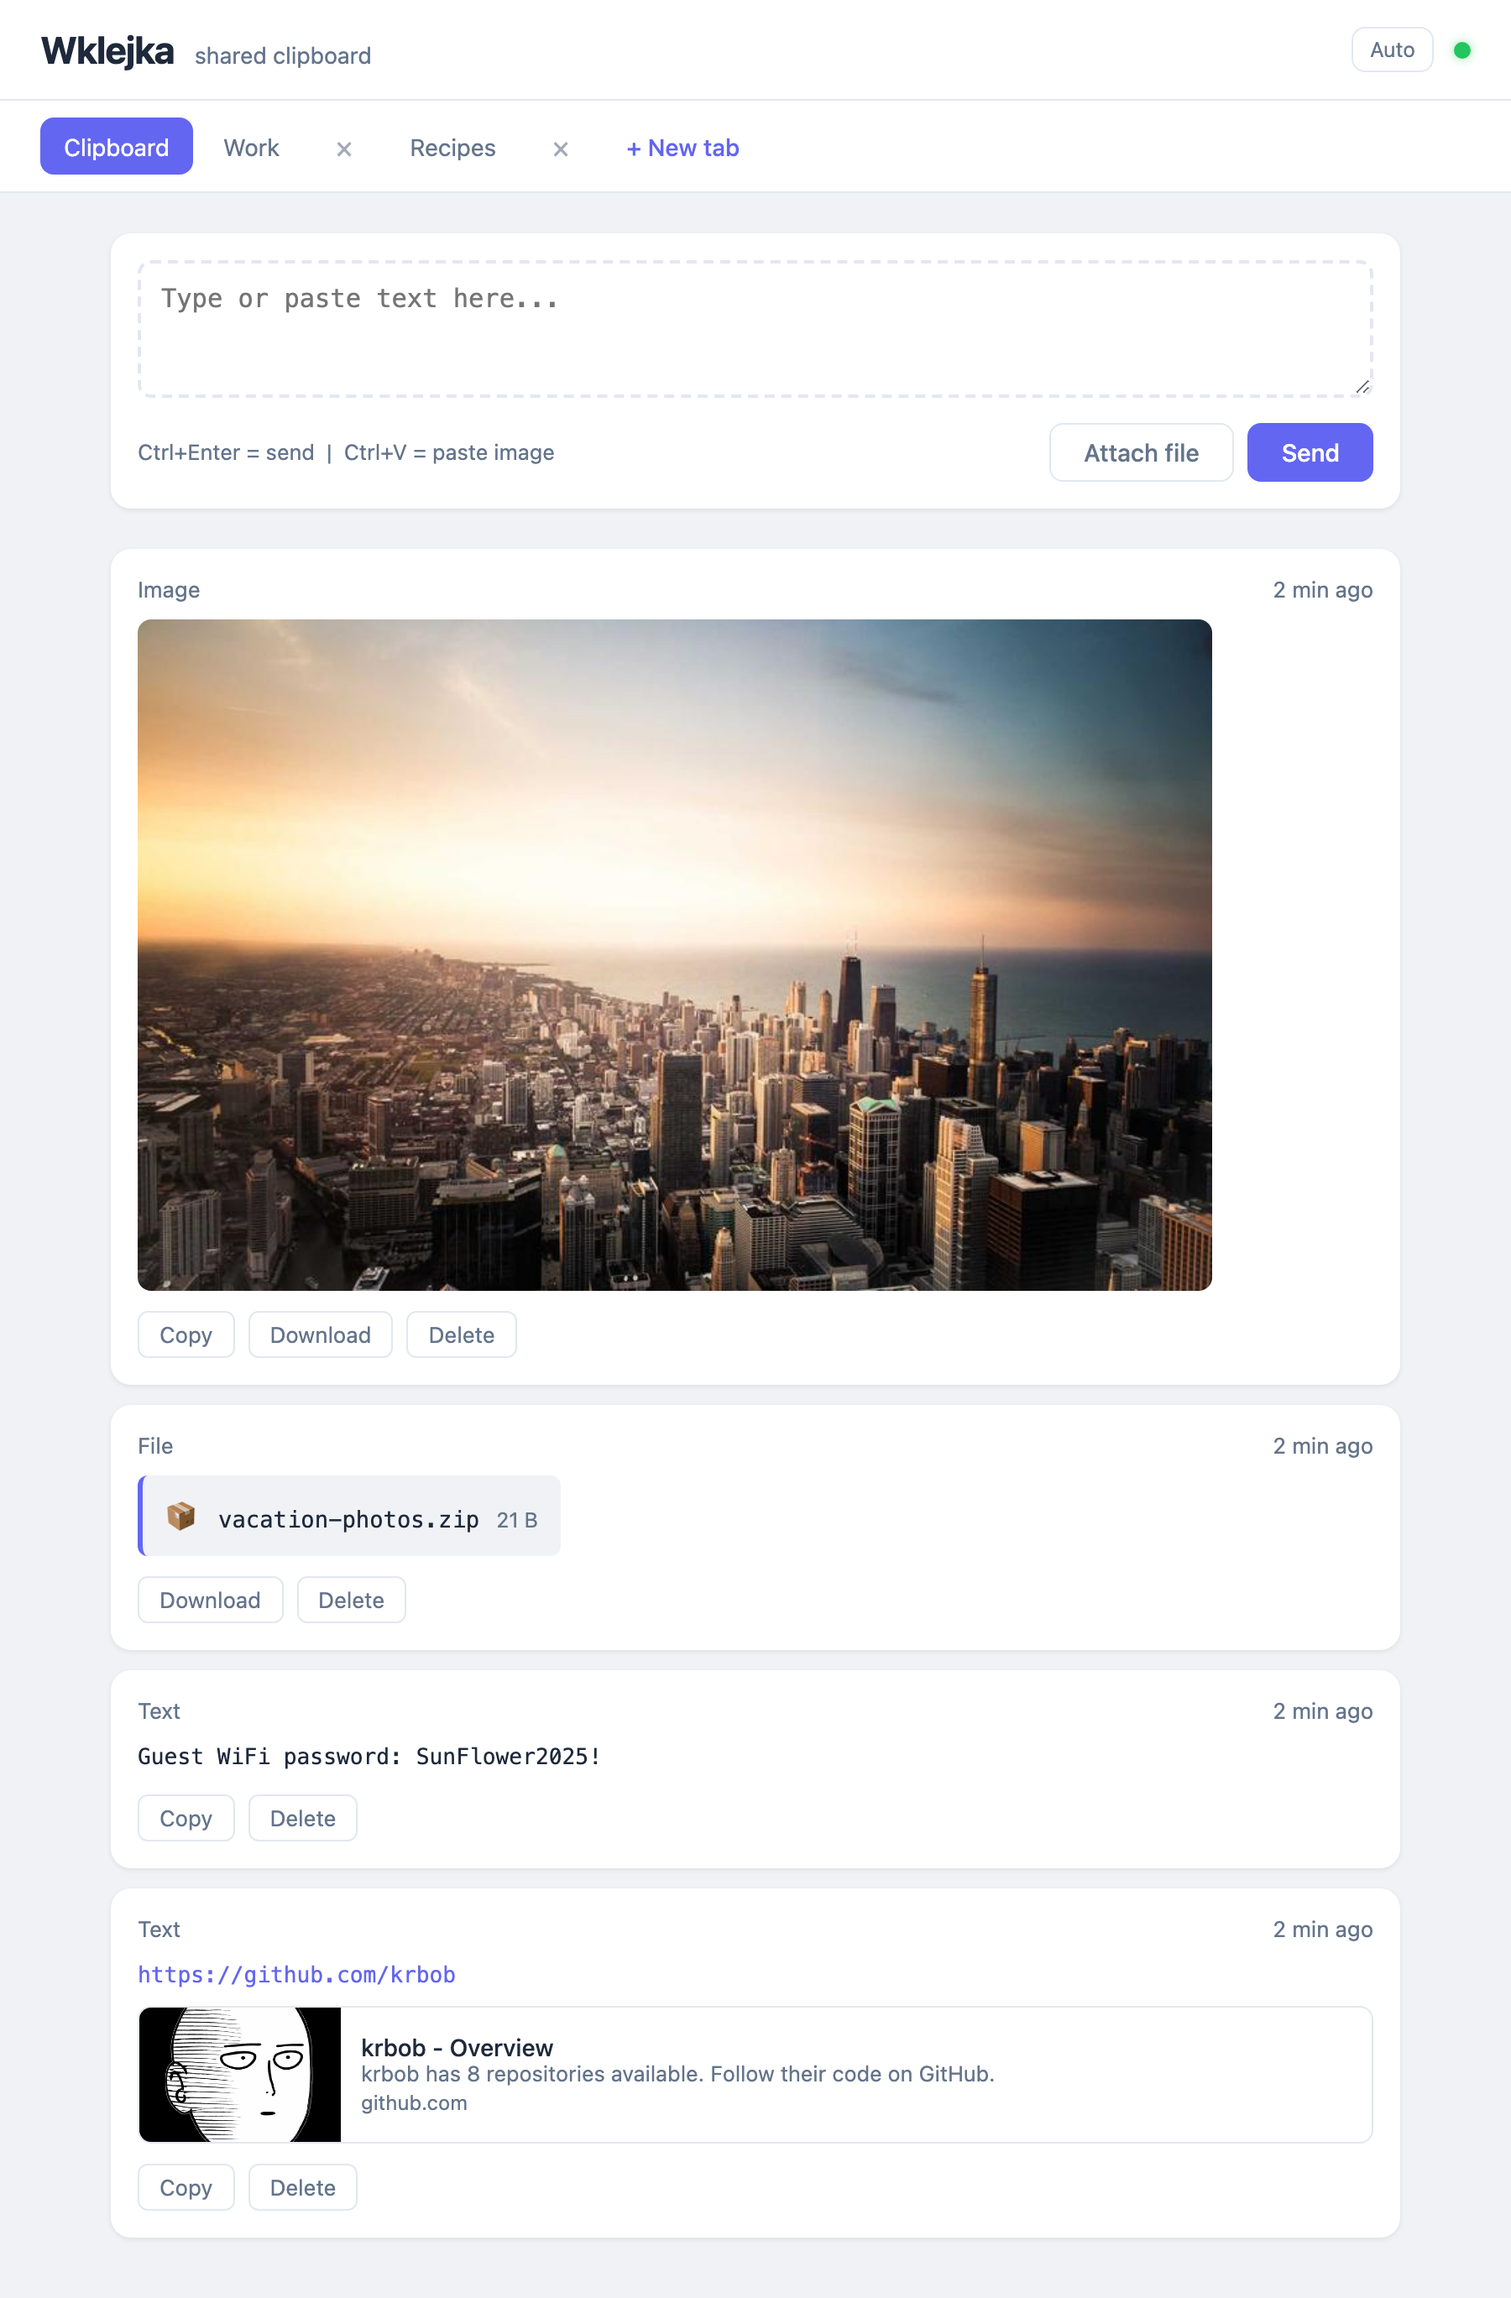
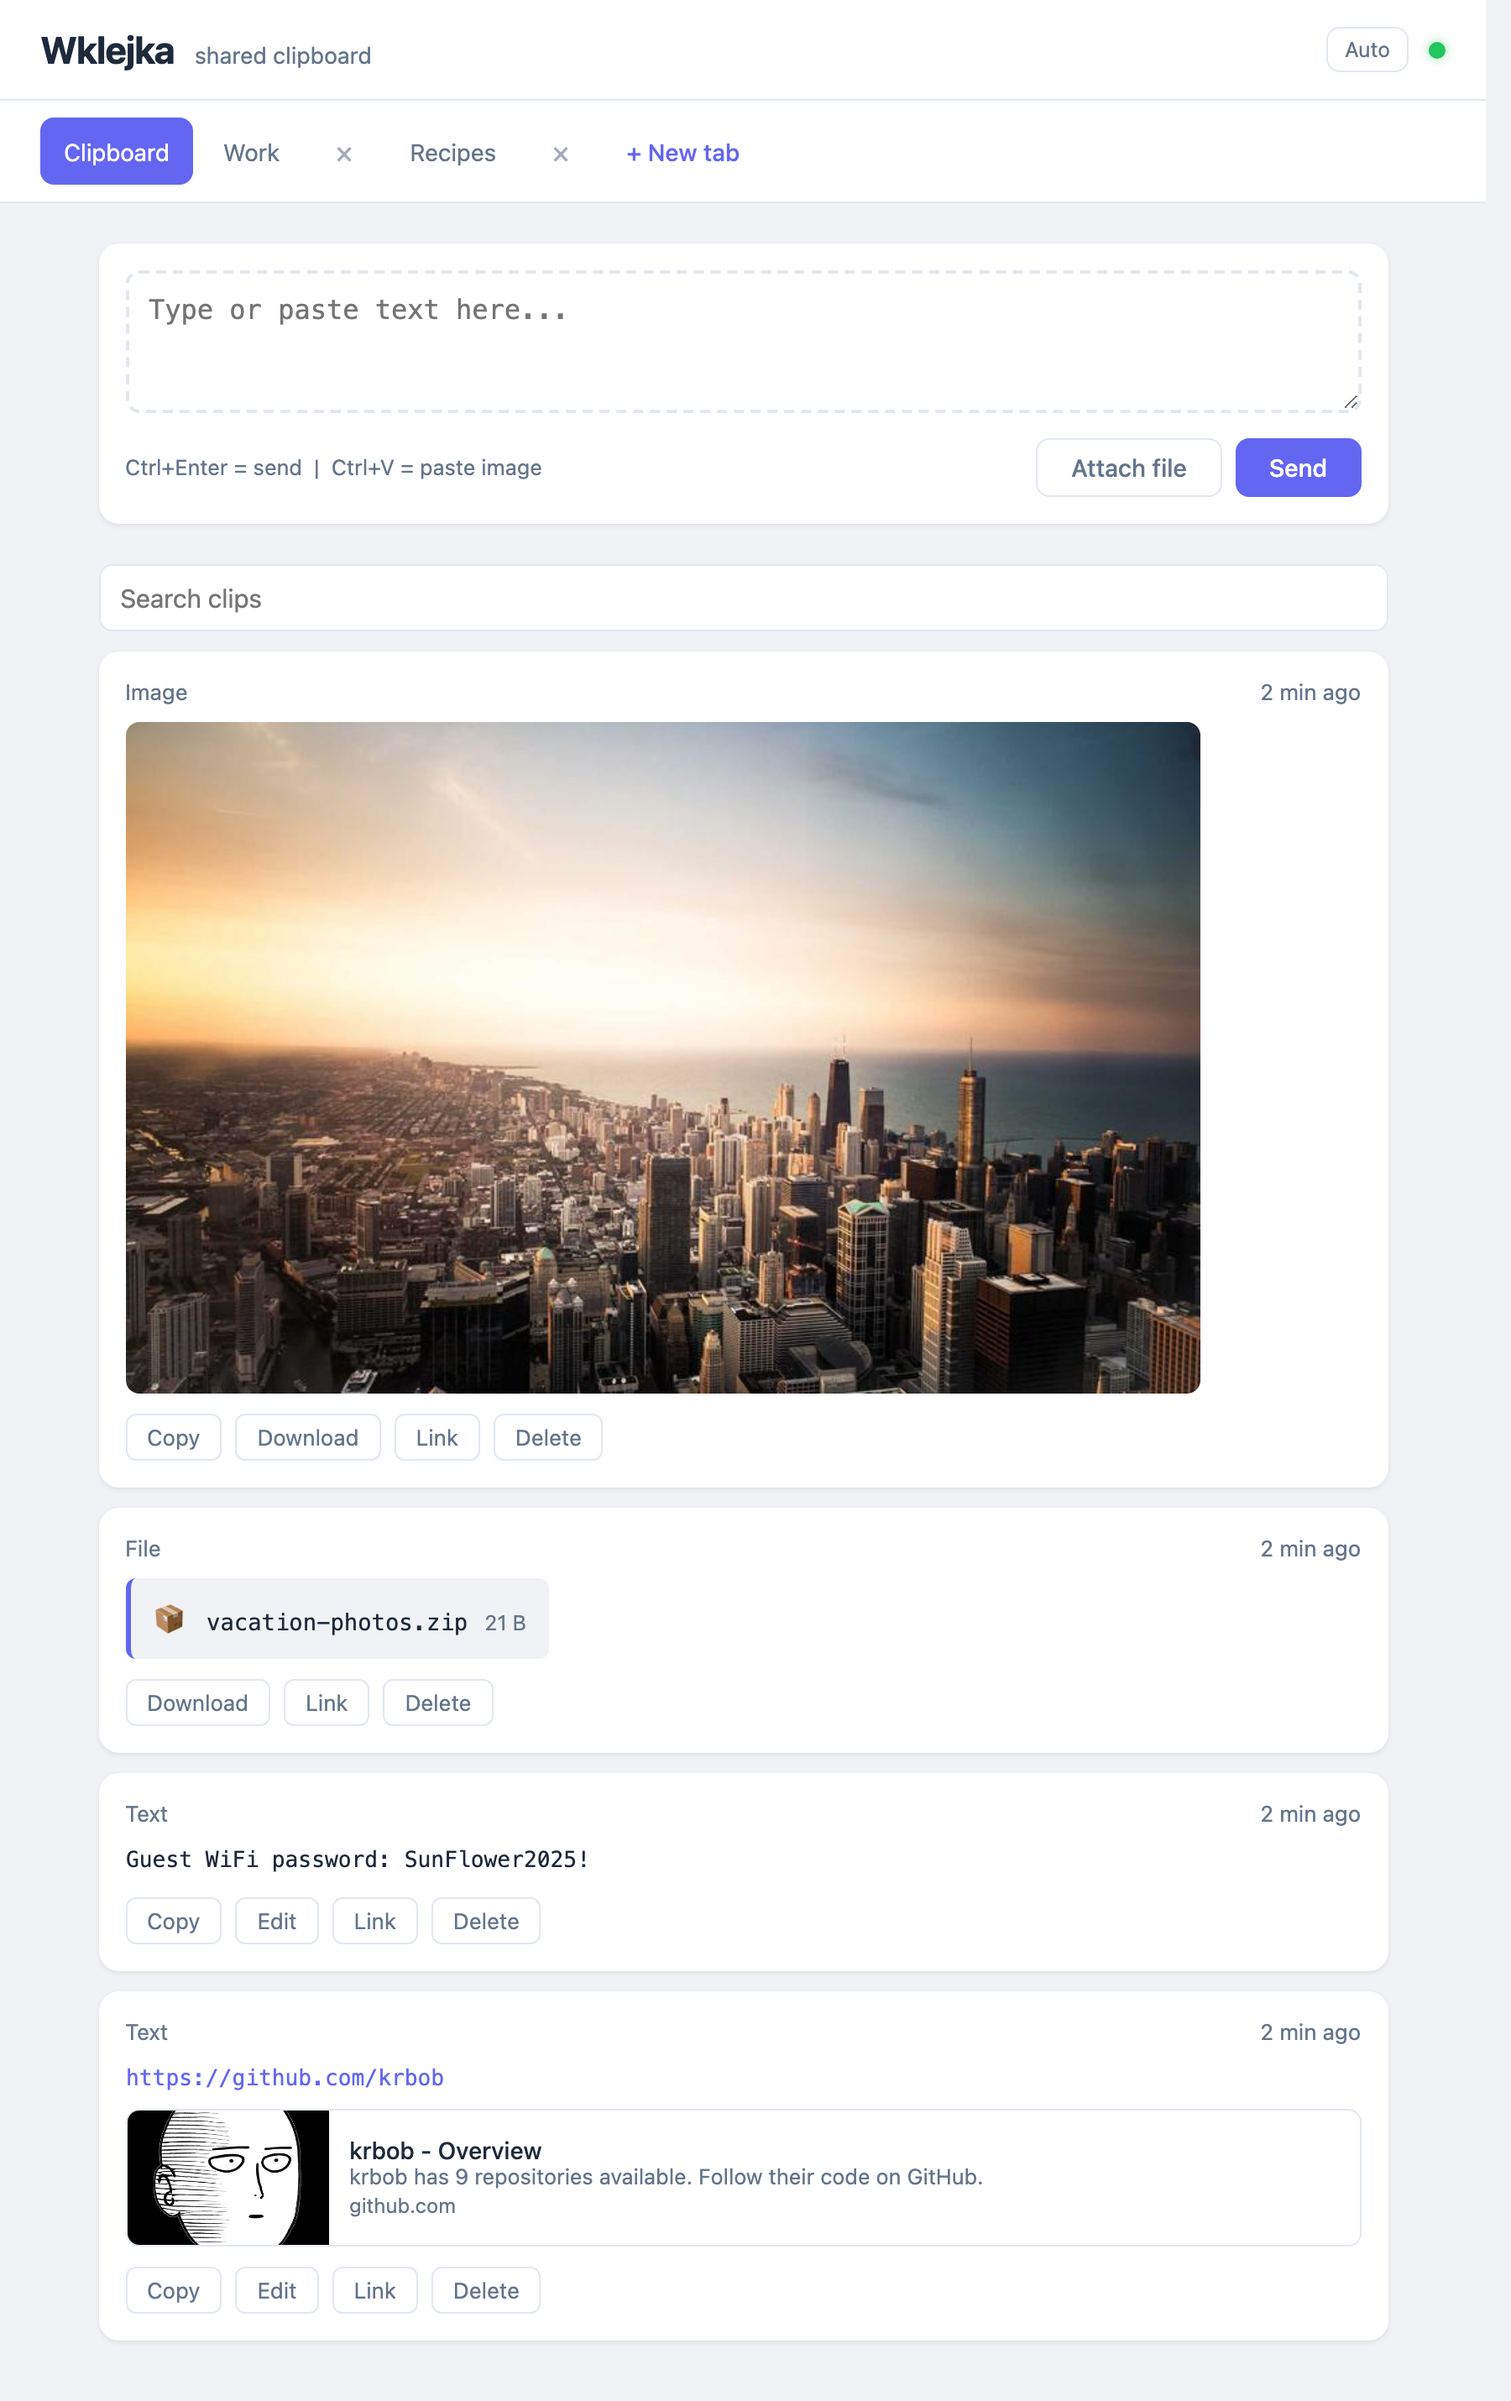
Update screenshots

diff --git a/README.md b/README.md
@@ -4,7 +4,10 @@
 
 Lightweight, browser-based shared clipboard. Paste text, images or files on one computer and instantly pick them up on another. Real-time sync via WebSocket, no sign-up required.
 
-![screenshot](screenshot.png)
+<picture>
+  <source media="(prefers-color-scheme: dark)" srcset="screenshot-dark.png">
+  <img src="screenshot.png" alt="screenshot">
+</picture>
 
 ## Getting started
 
